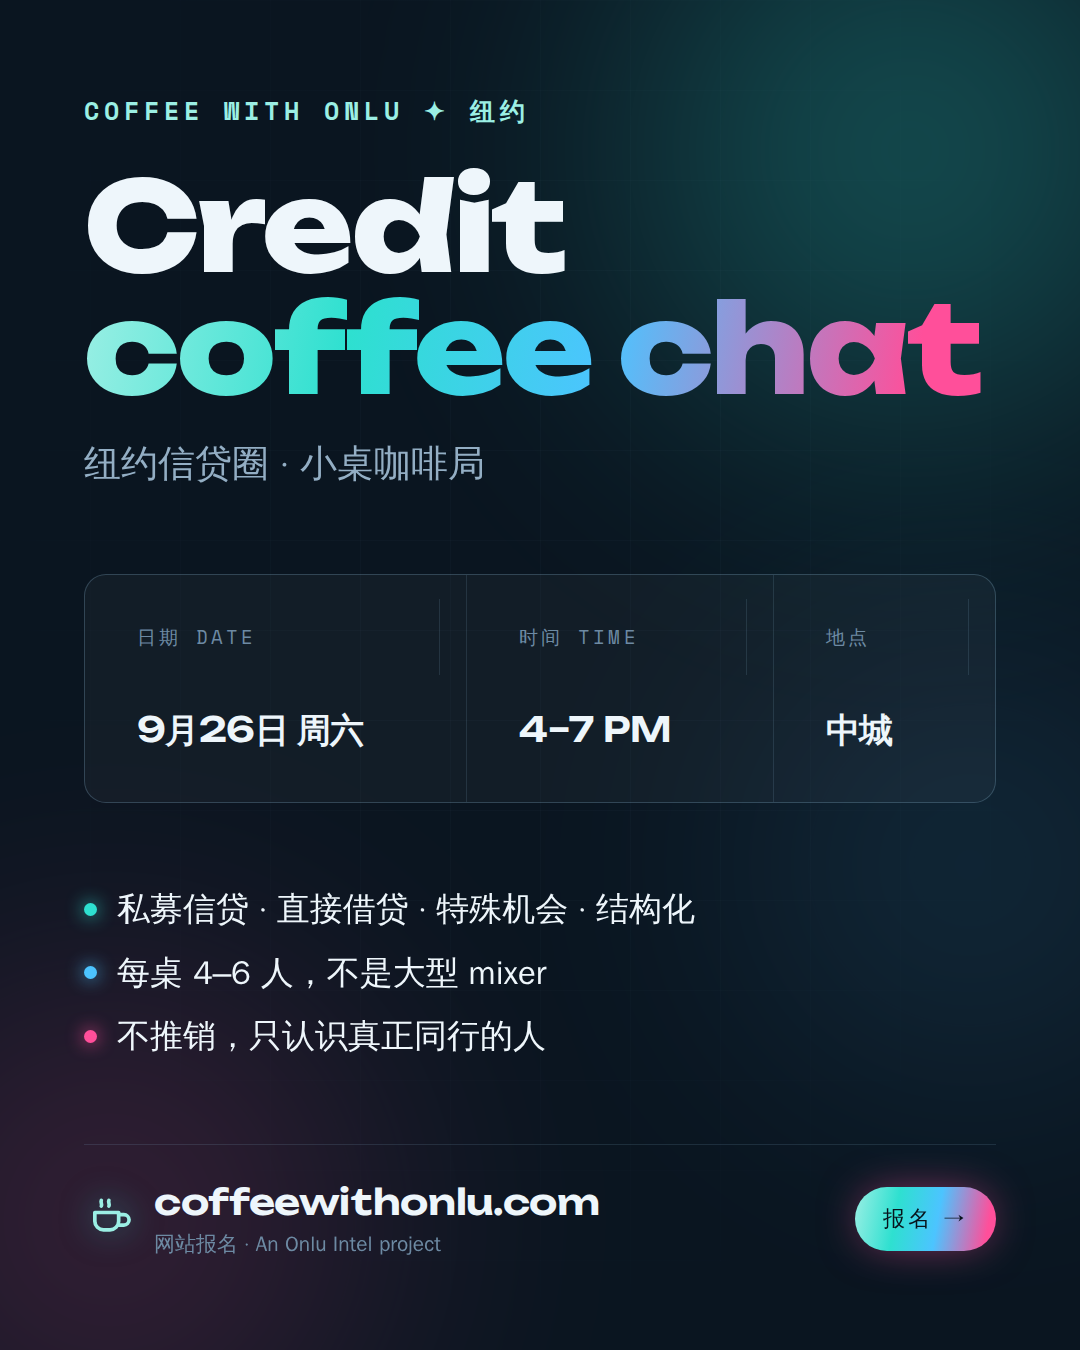
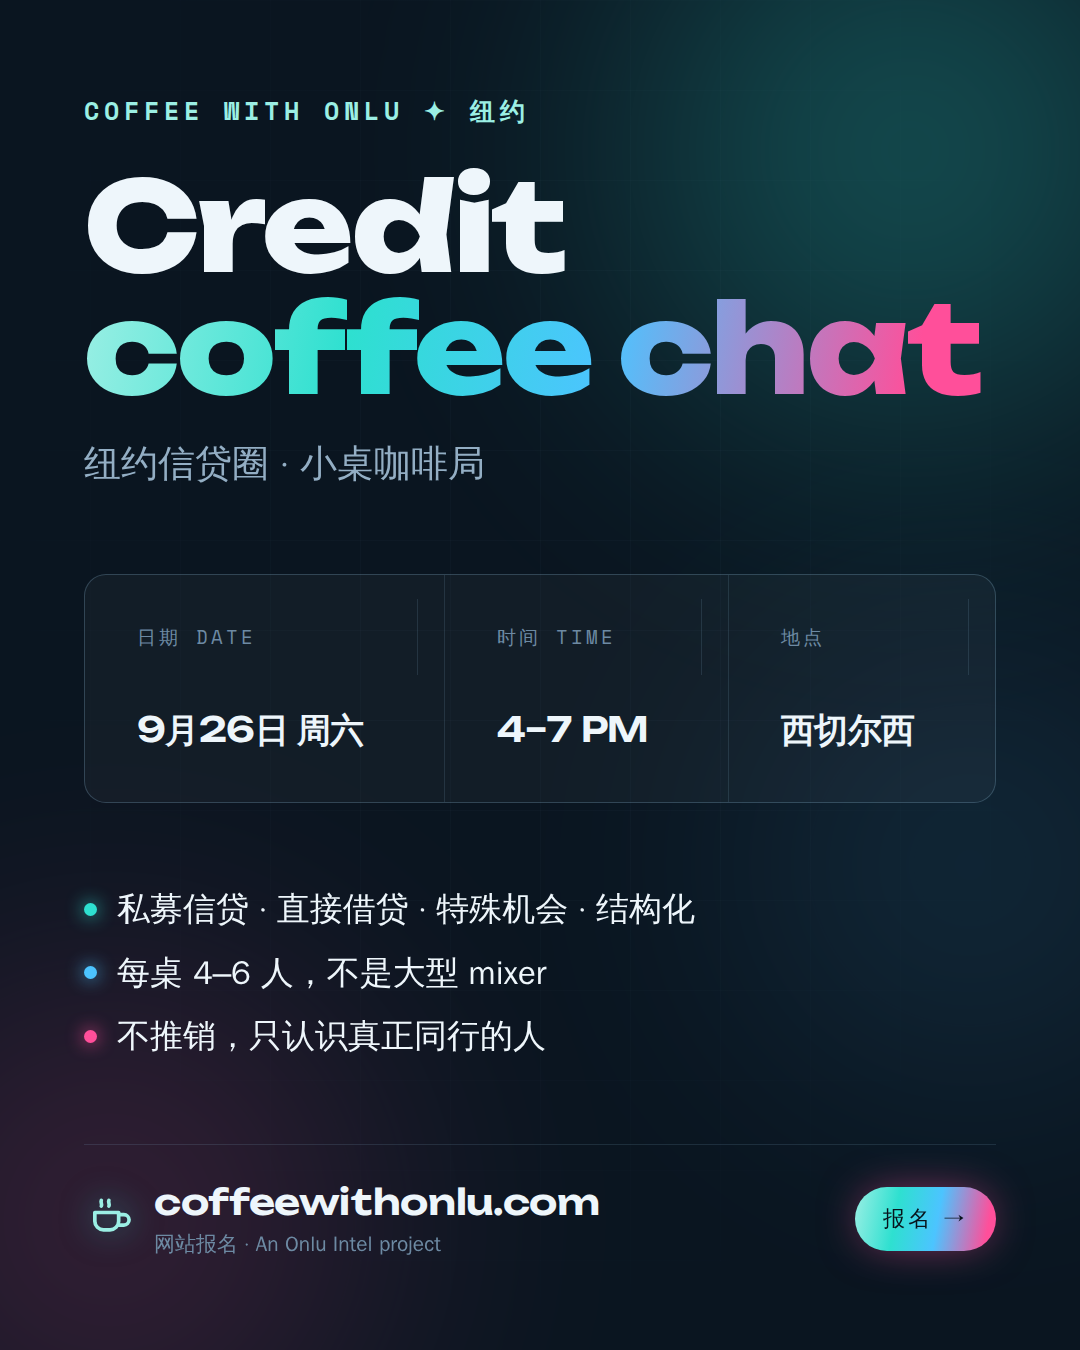
Move the Sep 26 credit coffee to West Chelsea
Updates the event's place in app.js and the location on all four social
cards, including the Chinese card (西切尔西).

Claude-Session: https://claude.ai/code/session_01THQHzvNsjhHsMdRnnGj1hD

diff --git a/social/poster.html b/social/poster.html
@@ -116,7 +116,7 @@ li::before{content:"";width:13px;height:13px;border-radius:50%;flex:none;margin-
       <div><div class="k">Date</div><div class="v">Sat · Sep 26</div></div>
       <div><div class="k">Time</div><div class="v">4–7 PM</div></div>
     </div>
-    <p class="seats" style="margin-top:26px;">Midtown, NYC · tables of 4–6 · no pitching</p>
+    <p class="seats" style="margin-top:26px;">West Chelsea, NYC · tables of 4–6 · no pitching</p>
   </div>
 
   <div class="foot">
@@ -144,7 +144,7 @@ li::before{content:"";width:13px;height:13px;border-radius:50%;flex:none;margin-
     <div class="when">
       <div><div class="k">Date</div><div class="v">Sat · Sep 26</div></div>
       <div><div class="k">Time</div><div class="v">4–7 PM</div></div>
-      <div><div class="k">Where</div><div class="v">Midtown</div></div>
+      <div><div class="k">Where</div><div class="v">West Chelsea</div></div>
     </div>
   </div>
 
@@ -180,7 +180,7 @@ li::before{content:"";width:13px;height:13px;border-radius:50%;flex:none;margin-
       <div><div class="k">Date</div><div class="v">Sat · Sep 26</div></div>
       <div><div class="k">Time</div><div class="v">4–7 PM</div></div>
     </div>
-    <p class="seats" style="margin-top:28px;">Midtown, NYC · tables of 4–6 · RSVP on the site</p>
+    <p class="seats" style="margin-top:28px;">West Chelsea, NYC · tables of 4–6 · RSVP on the site</p>
   </div>
 
   <ul>
@@ -214,7 +214,7 @@ li::before{content:"";width:13px;height:13px;border-radius:50%;flex:none;margin-
     <div class="when">
       <div><div class="k">日期 Date</div><div class="v zh">9月26日 周六</div></div>
       <div><div class="k">时间 Time</div><div class="v">4–7 PM</div></div>
-      <div><div class="k">地点</div><div class="v zh">中城</div></div>
+      <div><div class="k">地点</div><div class="v zh">西切尔西</div></div>
     </div>
   </div>
 

diff --git a/app.js b/app.js
@@ -82,7 +82,7 @@
       iso: "2026-09-26",
       date: "Saturday, Sep 26",
       time: "4:00–7:00 PM",
-      place: "Midtown",
+      place: "West Chelsea",
       note: "",
       full: false,
       partiful: "",  // add this coffee's Partiful link here
